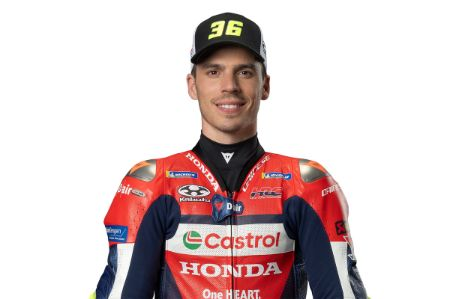
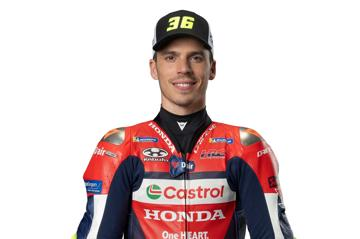
joan mir ya se ve bien en movil

diff --git a/piloto.html b/piloto.html
@@ -43,7 +43,7 @@
 
     <!--Imagen de Joan Mir TODO: redimensionar mejor-->
     <picture>
-        <source srcset="multimedia/piloto/joan-mir-movil.jpg" media="(max-width: 465px)" width="450" height="299"/>
+        <source srcset="multimedia/piloto/joan-mir-movil.jpg" media="(max-width: 465px)" width="360" height="239"/>
         <source srcset="multimedia/piloto/joan-mir-tablet.jpg" media="(max-width: 799px)" width="750" height="498"/>
         <source srcset="multimedia/piloto/joan-mir.jpg" media="(min-width: 800px)" width="1200" height="800"/>
         <img src="multimedia/piloto/joan-mir.jpg" alt = "Imagen de Joan Mir" width="1200" height="800"/>

diff --git a/php/cronometro.php b/php/cronometro.php
@@ -19,17 +19,16 @@
         
         public function mostrar() {
             $nanos = $this->tiempo;
-            // Usamos _ para que sean float
-            $mins = intdiv($nanos, 60_000_000_000);
-            $nanos -= $mins * 60_000_000_000;
-            $seconds = $nanos / 1_000_000_000;
+            $mins = intdiv($nanos, 60000000000);
+            $nanos -= $mins * 60000000000;
+            $seconds = $nanos / 1000000000;
 
             // Formato mm:ss.s
             return sprintf("%02d:%04.1f", $mins, $seconds);
         }
 
         public function getMillis() {
-            return intdiv($this->tiempo, 1_000_000);
+            return intdiv($this->tiempo, 1000000);
         }
     }
 ?>

diff --git a/multimedia/piloto/resize.py b/multimedia/piloto/resize.py
@@ -1,0 +1,13 @@
+from PIL import Image
+
+# Abre la imagen
+image_path = "joan-mir.jpg"  # Cambia esto por la ruta de tu imagen
+img = Image.open(image_path)
+
+# Redimensiona la imagen (por ejemplo, a 800x600 píxeles)
+new_width = 360
+new_height = 239
+resized_img = img.resize((new_width, new_height))
+
+# Guarda la nueva imagen redimensionada
+resized_img.save("imagen_redimensionada.jpg")  # El nombre del archivo nuevo
